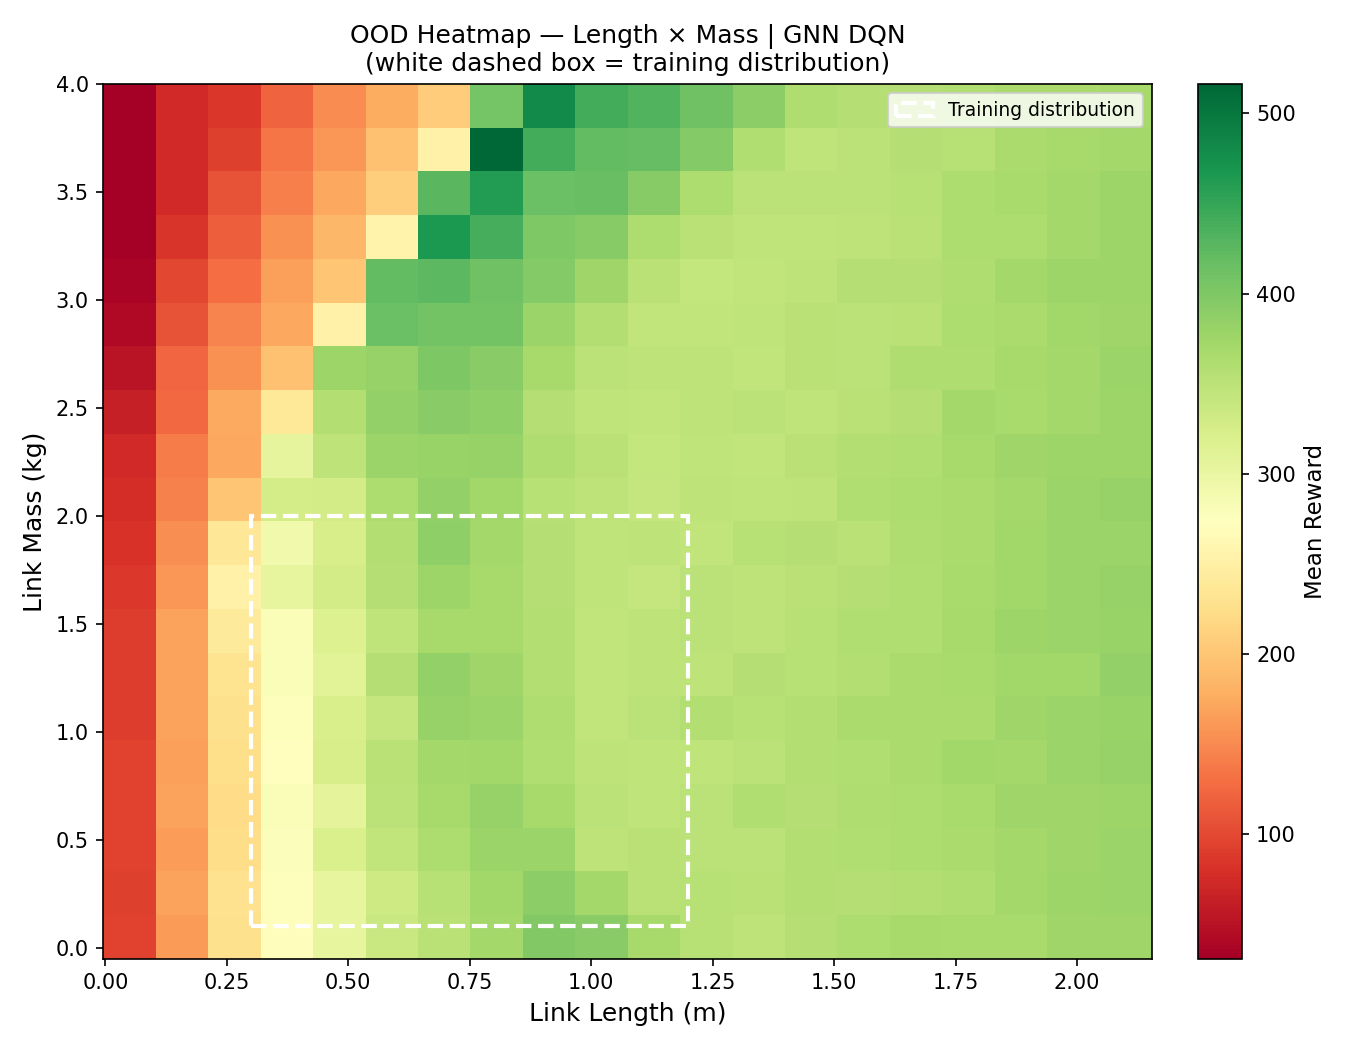
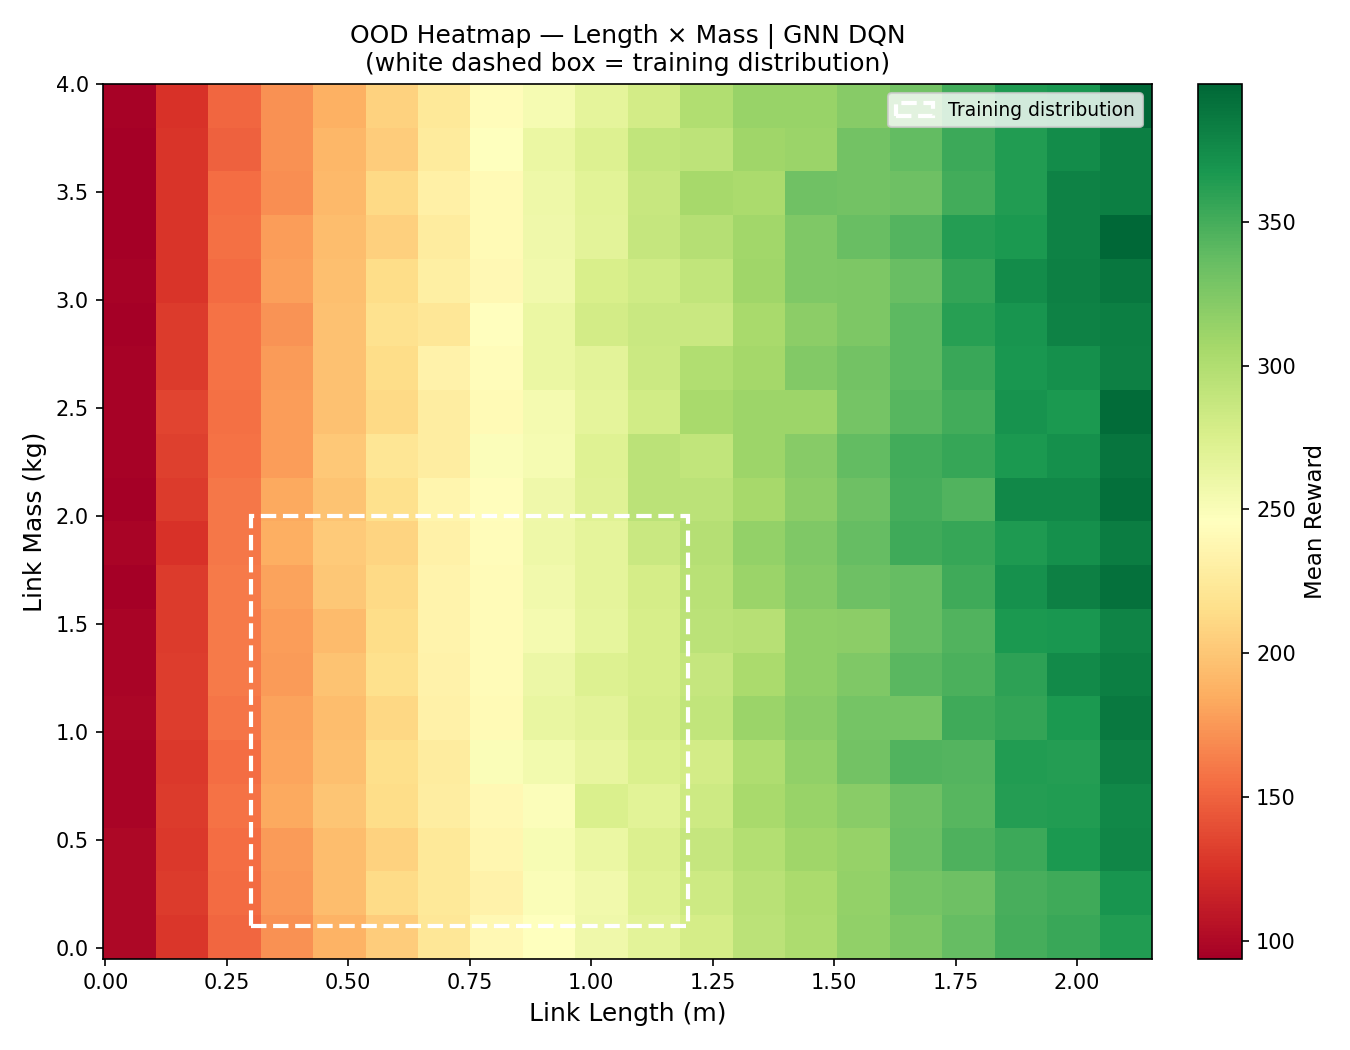
update DQN

diff --git a/models/gnn_dqn.py b/models/gnn_dqn.py
@@ -1,28 +1,27 @@
 #GNN-based DQN policy. Encodes the pendulum graph each timestep, outputs Q-values.
 
 """
-This uses message passing neural network MPNN, basically instead of transformer attention across
-all pairs, uses graph edges to pass messages between connected nodes.
+MPNN architecture:
 
-First:
-node/edge feature vector -> linear layer -> 64 dim vector embedding.
+Step 1 — Embed
+  node/edge feature vector → Linear → hidden-dim embedding
 
-Step 2 - message passing
-for every edge in the graph, compute message:
-message = MLP( source_node_embedding + edge_embedding )
+Step 2 — Message passing (n_layers rounds)
+  For every edge: message = MLP(src_node_embed || edge_embed)
+  Each node: aggregate mean of incoming messages
+  Update:    h_new = LayerNorm( h + MLP(h || mean_messages) )   ← residual + norm
 
-then each node, collect all incoming messages and average them
- (message from top edge and bottom edge for each node)
+Step 3 — Global pool
+  Masked mean over real nodes → single graph embedding
 
- each new node embedding is MLP(old node + mean(incoming 2 messages))
+Step 4 — Q-head
+  graph_embed → Linear → ReLU → Linear → Q-values (one per action bin)
+  Two-layer head gives more capacity than a single linear.
 
- basically embeddings spread/propogate through the graph this way
-
- Step3 - global pool
- We average all node embeddings into one representative 64 dim vector embedding as for the 'full system'
-
- Step4 - Q-head
- 64 'system vector' -> linear layer -> Q-values of bucket actions
+Auxiliary head (training signal only)
+  graph_embed → Linear → [length, mass] per rod
+  Helps the encoder learn to represent physical params explicitly.
+  Both Q and aux share one encoder forward pass per training step.
 """
 
 import torch
@@ -35,7 +34,7 @@ EDGE_FEAT_DIM = 2
 
 
 class MessagePassingLayer(nn.Module):
-    #One round of: gather src embeddings → compute messages → aggregate at dst → update nodes.
+    """One round of: gather src embeddings → compute messages → aggregate at dst → update nodes."""
 
     def __init__(self, hidden: int, dropout: float = 0.1):
         super().__init__()
@@ -49,7 +48,7 @@ class MessagePassingLayer(nn.Module):
             nn.ReLU(),
             # nn.Dropout(dropout),
         )
-        # self.norm = nn.LayerNorm(hidden)
+        self.norm = nn.LayerNorm(hidden)
 
     def forward(self, h, e_embed, edge_index, n_edges):
         # h:          (B, max_nodes, hidden)
@@ -63,37 +62,38 @@ class MessagePassingLayer(nn.Module):
         src_idx = edge_index[:, 0, :]  # (B, max_edges)
         dst_idx = edge_index[:, 1, :]  # (B, max_edges)
 
-        # gather source node embedding for every edge
+        # Gather source node embedding for every edge
         src_exp = src_idx.unsqueeze(-1).expand(B, max_edges, hidden)
-        src_h = h.gather(1, src_exp)  # (B, max_edges, hidden)
+        src_h   = h.gather(1, src_exp)  # (B, max_edges, hidden)
 
-        # compute messages and zero out padding edges
-        messages = self.msg_fn(torch.cat([src_h, e_embed], dim=-1))  # (B, max_edges, hidden)
-        edge_mask = (torch.arange(max_edges, device=h.device).unsqueeze(0) < n_edges)  # (B, max_edges)
-        messages = messages * edge_mask.unsqueeze(-1).float()
+        # Compute messages; zero out padding edges
+        messages  = self.msg_fn(torch.cat([src_h, e_embed], dim=-1))
+        edge_mask = torch.arange(max_edges, device=h.device).unsqueeze(0) < n_edges
+        messages  = messages * edge_mask.unsqueeze(-1).float()
 
-        # incoming means to destination nodes
+        # Mean-aggregate at destination nodes
         dst_exp = dst_idx.unsqueeze(-1).expand(B, max_edges, hidden)
-        agg = torch.zeros(B, max_nodes, hidden, device=h.device)
+        agg     = torch.zeros(B, max_nodes, hidden, device=h.device)
         agg.scatter_add_(1, dst_exp, messages)
-
-        counts = torch.zeros(B, max_nodes, 1, device=h.device)
+        counts  = torch.zeros(B, max_nodes, 1, device=h.device)
         counts.scatter_add_(1, dst_idx.unsqueeze(-1), edge_mask.unsqueeze(-1).float())
-        agg = agg / counts.clamp(min=1.0)
+        agg     = agg / counts.clamp(min=1.0)
 
+        # Residual connection — prevents embedding drift and stabilises gradient flow
         h_new = self.update_fn(torch.cat([h, agg], dim=-1))
-        # return self.norm(h_new)
-        return h_new
+        return self.norm(h + h_new)
 
 
 class GNNEncoder(nn.Module):
-    #Graph MPNN encoder: embed → message pass → global pool → embedding.
+    """Graph MPNN encoder: embed → message pass → global pool → embedding."""
 
     def __init__(self, hidden: int, n_layers: int, dropout: float = 0.1):
         super().__init__()
         self.node_embed = nn.Linear(NODE_FEAT_DIM, hidden)
         self.edge_embed = nn.Linear(EDGE_FEAT_DIM, hidden)
-        self.mp_layers  = nn.ModuleList([MessagePassingLayer(hidden, dropout) for _ in range(n_layers)])
+        self.mp_layers  = nn.ModuleList(
+            [MessagePassingLayer(hidden, dropout) for _ in range(n_layers)]
+        )
 
     def forward(self, obs: dict) -> torch.Tensor:
         node_features = obs["node_features"].float()   # (B, max_nodes, 8)
@@ -110,31 +110,39 @@ class GNNEncoder(nn.Module):
         for layer in self.mp_layers:
             h = layer(h, e, edge_index, n_edges)
 
-        # mean pool over real nodes only
-        node_mask = torch.arange(max_nodes, device=h.device).unsqueeze(0) < n_nodes  # (B, max_nodes)
+        # Masked mean pool over real nodes only
+        node_mask = torch.arange(max_nodes, device=h.device).unsqueeze(0) < n_nodes
         h = h * node_mask.unsqueeze(-1).float()
         graph_emb = h.sum(dim=1) / n_nodes.float()    # (B, hidden)
-
         return graph_emb
 
 
 class GNNDQNPolicy(BaseDQNPolicy):
-    #GNN encoder + Q-head. Auxiliary head predicts rod [length, mass] pairs for richer training signal.
+    """GNN encoder + two-layer Q-head + auxiliary rod-param prediction head."""
 
     def __init__(self, n_action_bins: int, hidden: int = 64, n_mp_layers: int = 2,
                  max_links: int = 4, dropout: float = 0.1):
         super().__init__(n_action_bins)
-        self.encoder  = GNNEncoder(hidden, n_mp_layers, dropout)
-        self.q_head   = nn.Linear(hidden, n_action_bins)
-        # auxiliary: predict [length, mass] for every rod (max_links rods)
-        self.aux_head = nn.Linear(hidden, max_links * 2)
+        self.encoder   = GNNEncoder(hidden, n_mp_layers, dropout)
+        # Two-layer Q-head: more capacity than a single linear
+        self.q_head    = nn.Sequential(
+            nn.Linear(hidden, hidden),
+            nn.ReLU(),
+            nn.Linear(hidden, n_action_bins),
+        )
+        # Auxiliary head: predict [length, mass] per rod from the same embedding
+        self.aux_head  = nn.Linear(hidden, max_links * 2)
         self.max_links = max_links
 
-    def get_q_values(self, obs: dict) -> torch.Tensor:
+    def forward(self, obs: dict) -> tuple[torch.Tensor, torch.Tensor]:
+        """Single encoder pass → (q_values, aux_predictions). Used during training."""
         emb = self.encoder(obs)
-        return self.q_head(emb)  # (B, n_action_bins)
+        return self.q_head(emb), self.aux_head(emb)
+
+    def get_q_values(self, obs: dict) -> torch.Tensor:
+        """Encoder + Q-head only. Used for action selection and target computation."""
+        return self.q_head(self.encoder(obs))
 
     def get_aux_predictions(self, obs: dict) -> torch.Tensor:
-        #Predict rod params [L0,m0, L1,m1, ...] — used as auxiliary loss during training.
-        emb = self.encoder(obs)
-        return self.aux_head(emb)  # (B, max_links * 2)
+        """Aux head only — kept for API compatibility but training uses forward() instead."""
+        return self.aux_head(self.encoder(obs))

diff --git a/training/train_dqn.py b/training/train_dqn.py
@@ -118,10 +118,11 @@ def compute_td_loss(policy, target, obs, actions, rewards, next_obs, dones, gamm
 
     td_loss = F.smooth_l1_loss(q_taken, target_q)
 
-    # auxiliary param prediction (GNN only — MLP has no aux_head)
+    # auxiliary param prediction (GNN only — MLP has no forward() returning aux)
+    # Use policy.forward() so encoder runs once for both Q and aux (not twice).
     aux_loss = torch.tensor(0.0, device=device)
-    if hasattr(policy, "get_aux_predictions"):
-        pred = policy.get_aux_predictions(obs)           # (B, max_links * 2)
+    if hasattr(policy, "max_links") and callable(getattr(policy, "forward", None)):
+        _, pred = policy(obs)                            # (B, n_bins), (B, max_links * 2)
         # build ground-truth from edge_features: edges 0,2,4,... are forward edges → [length, mass]
         # edge_features shape (B, max_edges, 2), forward edges at even indices
         ef   = obs["edge_features"]                      # (B, max_edges, 2)
@@ -185,8 +186,8 @@ def train(cfg, policy_name: str):
     target = copy.deepcopy(policy).to(device)
     target.eval()
 
-    optimizer = torch.optim.Adam(policy.parameters(), lr=dqn_cfg["lr"])
-    # weight_decay=dqn_cfg.get("weight_decay", 1e-4)  # L2 reg — disabled for now
+    optimizer = torch.optim.Adam(policy.parameters(), lr=dqn_cfg["lr"],
+                                 weight_decay=dqn_cfg.get("weight_decay", 1e-4))
     buffer    = ReplayBuffer(dqn_cfg["replay_capacity"], max_nodes, max_edges)
 
     # --- bookkeeping ---

diff --git a/eval/eval_dqn.py b/eval/eval_dqn.py
@@ -74,7 +74,12 @@ def load_policy(policy_name: str, checkpoint_path: str, cfg: dict,
     else:
         policy = MLPDQNPolicy(n_bins, max_links=max_links, hidden=hidden)
 
-    policy.load_state_dict(torch.load(checkpoint_path, map_location=device))
+    state_dict = torch.load(checkpoint_path, map_location=device)
+    missing, unexpected = policy.load_state_dict(state_dict, strict=False)
+    if missing:
+        print(f"  [warn] checkpoint missing keys (new arch keys init to default): {missing}")
+    if unexpected:
+        print(f"  [warn] checkpoint has unexpected keys (ignored): {unexpected}")
     policy.to(device)
     policy.eval()
     return policy
